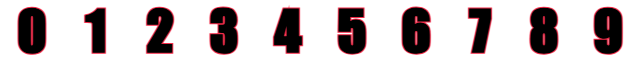
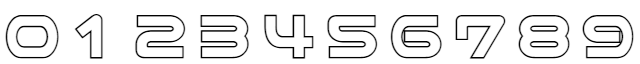
制限時間の表示

diff --git a/project/application/scene/play/GamePlayScene.cpp b/project/application/scene/play/GamePlayScene.cpp
@@ -361,6 +361,15 @@ void GamePlayScene::Initialize()
 	levelUpUI_ = std::make_unique<LevelUpUI>();
 	levelUpUI_->Initialize(sceneManager_->GetSpriteCommon());
 
+	// 制限時間表示用 NumberSprite の初期化
+	timerSprite_ = std::make_unique<NumberSprite>();
+	timerSprite_->Initialize(sprCommon, "./Resources/numbers.png", { kTimerDigitWidth, kTimerDigitHeight });
+	timerSprite_->SetPosition({ kTimerPosX, kTimerPosY });
+	timerSprite_->SetSpacing(kTimerSpacing);
+	timerSprite_->SetScale(kTimerScale);
+	timerSprite_->SetAlignment(NumberAlignment::Center);
+	timerSprite_->SetMinDigits(3); // 最低3桁表示（例: 060）
+
 	// ProgressionSystem に通知先を設定
 	progressionSystem->SetLevelUpUI(levelUpUI_.get());
 	progressionSystem->SetPostProcessManager(sceneManager_->GetPostProcessManager());
@@ -455,6 +464,27 @@ void GamePlayScene::UpdateUI()
 	if (controlsGuide_) controlsGuide_->Update();
 	if (levelUpUI_) levelUpUI_->Update();
 	if (poseMenu_) poseMenu_->Update();
+
+	// 制限時間の残り秒数を更新
+	if (timerSprite_)
+	{
+		float remaining = kGameTimeLimit - gameTime_;
+		if (remaining < 0.0f) remaining = 0.0f;
+		int remainingSeconds = static_cast<int>(remaining);
+		timerSprite_->SetNumber(remainingSeconds);
+
+		// 残り時間が少ないときは赤く警告
+		if (remaining <= kTimerWarningThreshold)
+		{
+			timerSprite_->SetColor(VectorColorCodes::Red);
+		}
+		else
+		{
+			timerSprite_->SetColor(VectorColorCodes::White);
+		}
+
+		timerSprite_->Update();
+	}
 }
 
 void GamePlayScene::DrawUI()
@@ -462,6 +492,8 @@ void GamePlayScene::DrawUI()
 	if (reticle_) reticle_->Draw();
 	if (controlsGuide_) controlsGuide_->Draw();
 	if (levelUpUI_) levelUpUI_->Draw();
+	// 制限時間表示
+	if (timerSprite_) timerSprite_->Draw();
 	// ポーズメニューは最前面に表示
 	if (poseMenu_) poseMenu_->Draw();
 }
@@ -635,7 +667,7 @@ void GamePlayScene::OnUpdatePlaying()
 
 	// ゲームクリア判定 (時間の経過)
 	gameTime_ += TimeManager::GetInstance().GetGameContext().deltaTime;
-	if (gameTime_ >= 180.0f)
+	if (gameTime_ >= kGameTimeLimit)
 	{
 		gameClear_ = true;
 		ChangeState(SceneState::End);

diff --git a/project/application/scene/play/GamePlayScene.h b/project/application/scene/play/GamePlayScene.h
@@ -91,6 +91,17 @@ private:
 	static constexpr float kEnterTransitionDuration = 1.5f;
 	static constexpr float kExitTransitionDuration = 2.0f;
 
+	// --- 制限時間表示 ---
+	static constexpr float kGameTimeLimit = 180.0f;
+	static constexpr float kTimerDigitWidth = 64.0f;
+	static constexpr float kTimerDigitHeight = 64.0f;
+	static constexpr float kTimerPosX = 640.0f;
+	static constexpr float kTimerPosY = 50.0f;
+	static constexpr float kTimerSpacing = -5.0f;
+	static constexpr float kTimerScale = 0.8f;
+	// 残り時間が少ないときの警告閾値（秒）
+	static constexpr float kTimerWarningThreshold = 30.0f;
+
     // --- ゲームプレイ ---
     std::unique_ptr<Cursor> reticle_;
     std::unique_ptr<Object3d> skydome_;
@@ -119,6 +130,9 @@ private:
     bool gameClear_ = false;
 	bool gameOver_ = false;
     float gameTime_ = 0.0f;
+
+	// 制限時間の数値表示
+	std::unique_ptr<NumberSprite> timerSprite_;
 
 	// --- UI ---
 	std::unique_ptr<ControlsGuide> controlsGuide_ = nullptr;
